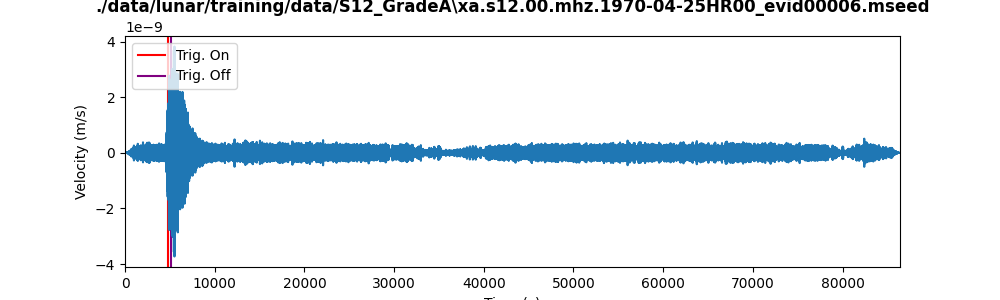
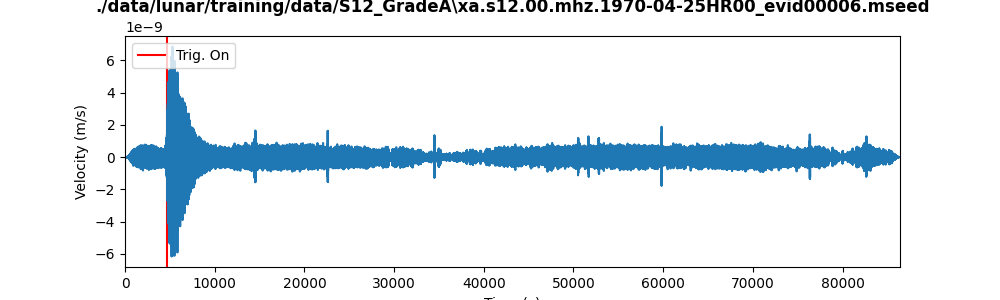
Co-authored-by: Ankit Panda <Ankit-Panda-2010@users.noreply.github.com> Co-authored-by: lifeissomewhatcool <lifeissomewhatcool@users.noreply.github.com>

diff --git a/exp.py b/exp.py
@@ -9,7 +9,7 @@ import matplotlib.pyplot as plt
 from matplotlib import cm
 from datetime import datetime, timedelta
 from os.path import join
-from obspy.signal.trigger import classic_sta_lta, trigger_onset
+from obspy.signal.trigger import classic_sta_lta, trigger_onset, recursive_sta_lta
 #hello
 data_directory = './data/lunar/training/data/S12_GradeA/'
 cat_directory = './data/lunar/training/catalogs/'
@@ -25,27 +25,52 @@ cat = pd.read_csv(cat_file)
 def get_all_mseed_files(dir=""):
     return [join(dir, file) for file in os.listdir(dir) if file.endswith("mseed")]
 
+def filter(raw_trace):
+    trace = raw_trace.copy()
+    sampling_rate = trace.stats["sampling_rate"]
 
-def filter1(trace):
-    tr_filt = trace.copy()
-    tr_filt.filter('bandpass', freqmin = .9, freqmax = 1, corners=1, zerophase=False)
-    tr_filt.filter('lowpass', freq=0.1, corners=0, zerophase=False)
-    return tr_filt
+    trace.filter('lowpass', freq=0.4)
+    trace.filter('bandpass', freqmin=0.7, freqmax=1.5)
 
-def filter2(trace):
-    df = trace.stats.sampling_rate
     sta = 120 
-    lta = 600
-    cft = classic_sta_lta(trace, int(sta * df), int(lta * df))
+    lta = 1000
+    cft = classic_sta_lta(trace, int(sta * sampling_rate), int(lta * sampling_rate))
+
     thr_on = 4
     thr_off = 1.5
     on_off = np.array(trigger_onset(cft, thr_on, thr_off))
-    return on_off
+    
+    window_offset = 20
+
+    while len(on_off) < 1:
+        cft = classic_sta_lta(trace, int(sta + window_offset * sampling_rate), int(lta * sampling_rate))
+        on_off = np.array(trigger_onset(cft, thr_on, thr_off))
+        window_offset += 20
+
+    greatest_trigger = 0
+    corresponding_x = -1
+
+    for i in on_off:
+        #print(f"trigger {i} and len {len(trace.data)}")
+        if i[0] < len(trace.data):
+            abs_data = np.abs(trace.data[i[0]])
+            if greatest_trigger < abs_data:
+                greatest_trigger = abs_data
+                corresponding_x = i[0]
+
+            
+    #print(greatest_trigger)        
+
+    return raw_trace, corresponding_x
 
 def main_compiler():
-    print("main")
     streams = get_all_mseed_files(dir="./data/lunar/training/data/S12_GradeA")
+    #streams = get_all_mseed_files(dir="./data/mars/training/data")
+
     data_list = []
+
+    iteration = 0
+    limit = 3 #len(streams)
 
     for file in streams:
         data_stream = read(file)
@@ -53,16 +78,16 @@ def main_compiler():
         stats = data_stream[0].stats
         channel = stats.channel
 
-        filtered_trace = filter1(traces[0])
+        filtered_trace, arrival = filter(traces[0])
         tr_times = filtered_trace.times()
         tr_data = filtered_trace.data
-        values = filter2(filtered_trace)
         fig , ax = plt.subplots(1,1,figsize=(10,3))
+        ax.axvline(x = tr_times[arrival], color='red', label='Trig. On')
 
-        for i in np.arange(0,len(values)):
-            triggers = values[i]
-            ax.axvline(x = tr_times[triggers[0]], color='red', label='Trig. On')
-            ax.axvline(x = tr_times[triggers[1]], color='purple', label='Trig. Off')
+        # for i in np.arange(0,len(values)):
+        #     triggers = values[i]
+        #     ax.axvline(x = tr_times[triggers[0]], color='red', label='Trig. On')
+        #     ax.axvline(x = tr_times[triggers[1]], color='purple', label='Trig. Off')
 
         data_list.append(
             {
@@ -70,6 +95,7 @@ def main_compiler():
                 "Trace": filtered_trace,
             }
         )
+
 
 
         # Initialize figure
@@ -82,9 +108,16 @@ def main_compiler():
         ax.set_ylabel('Velocity (m/s)')
         ax.set_xlabel('Time (s)')
         ax.set_title(f'{file}', fontweight='bold') #Test_Filename isn't defined
+        print(tr_times[arrival])
+        if arrival == -1 or True:
+            fig.savefig(f"./imgs/{file.split("\\").pop().replace(".mseed", ".png")}")
 
-        fig.savefig(f"./imgs/{file.split("\\").pop().replace(".mseed", ".png")}")
-        plt.close()
+        if iteration > limit:
+            break
+
+        iteration+=1
+    plt.close()
+
        
     
 main_compiler()
